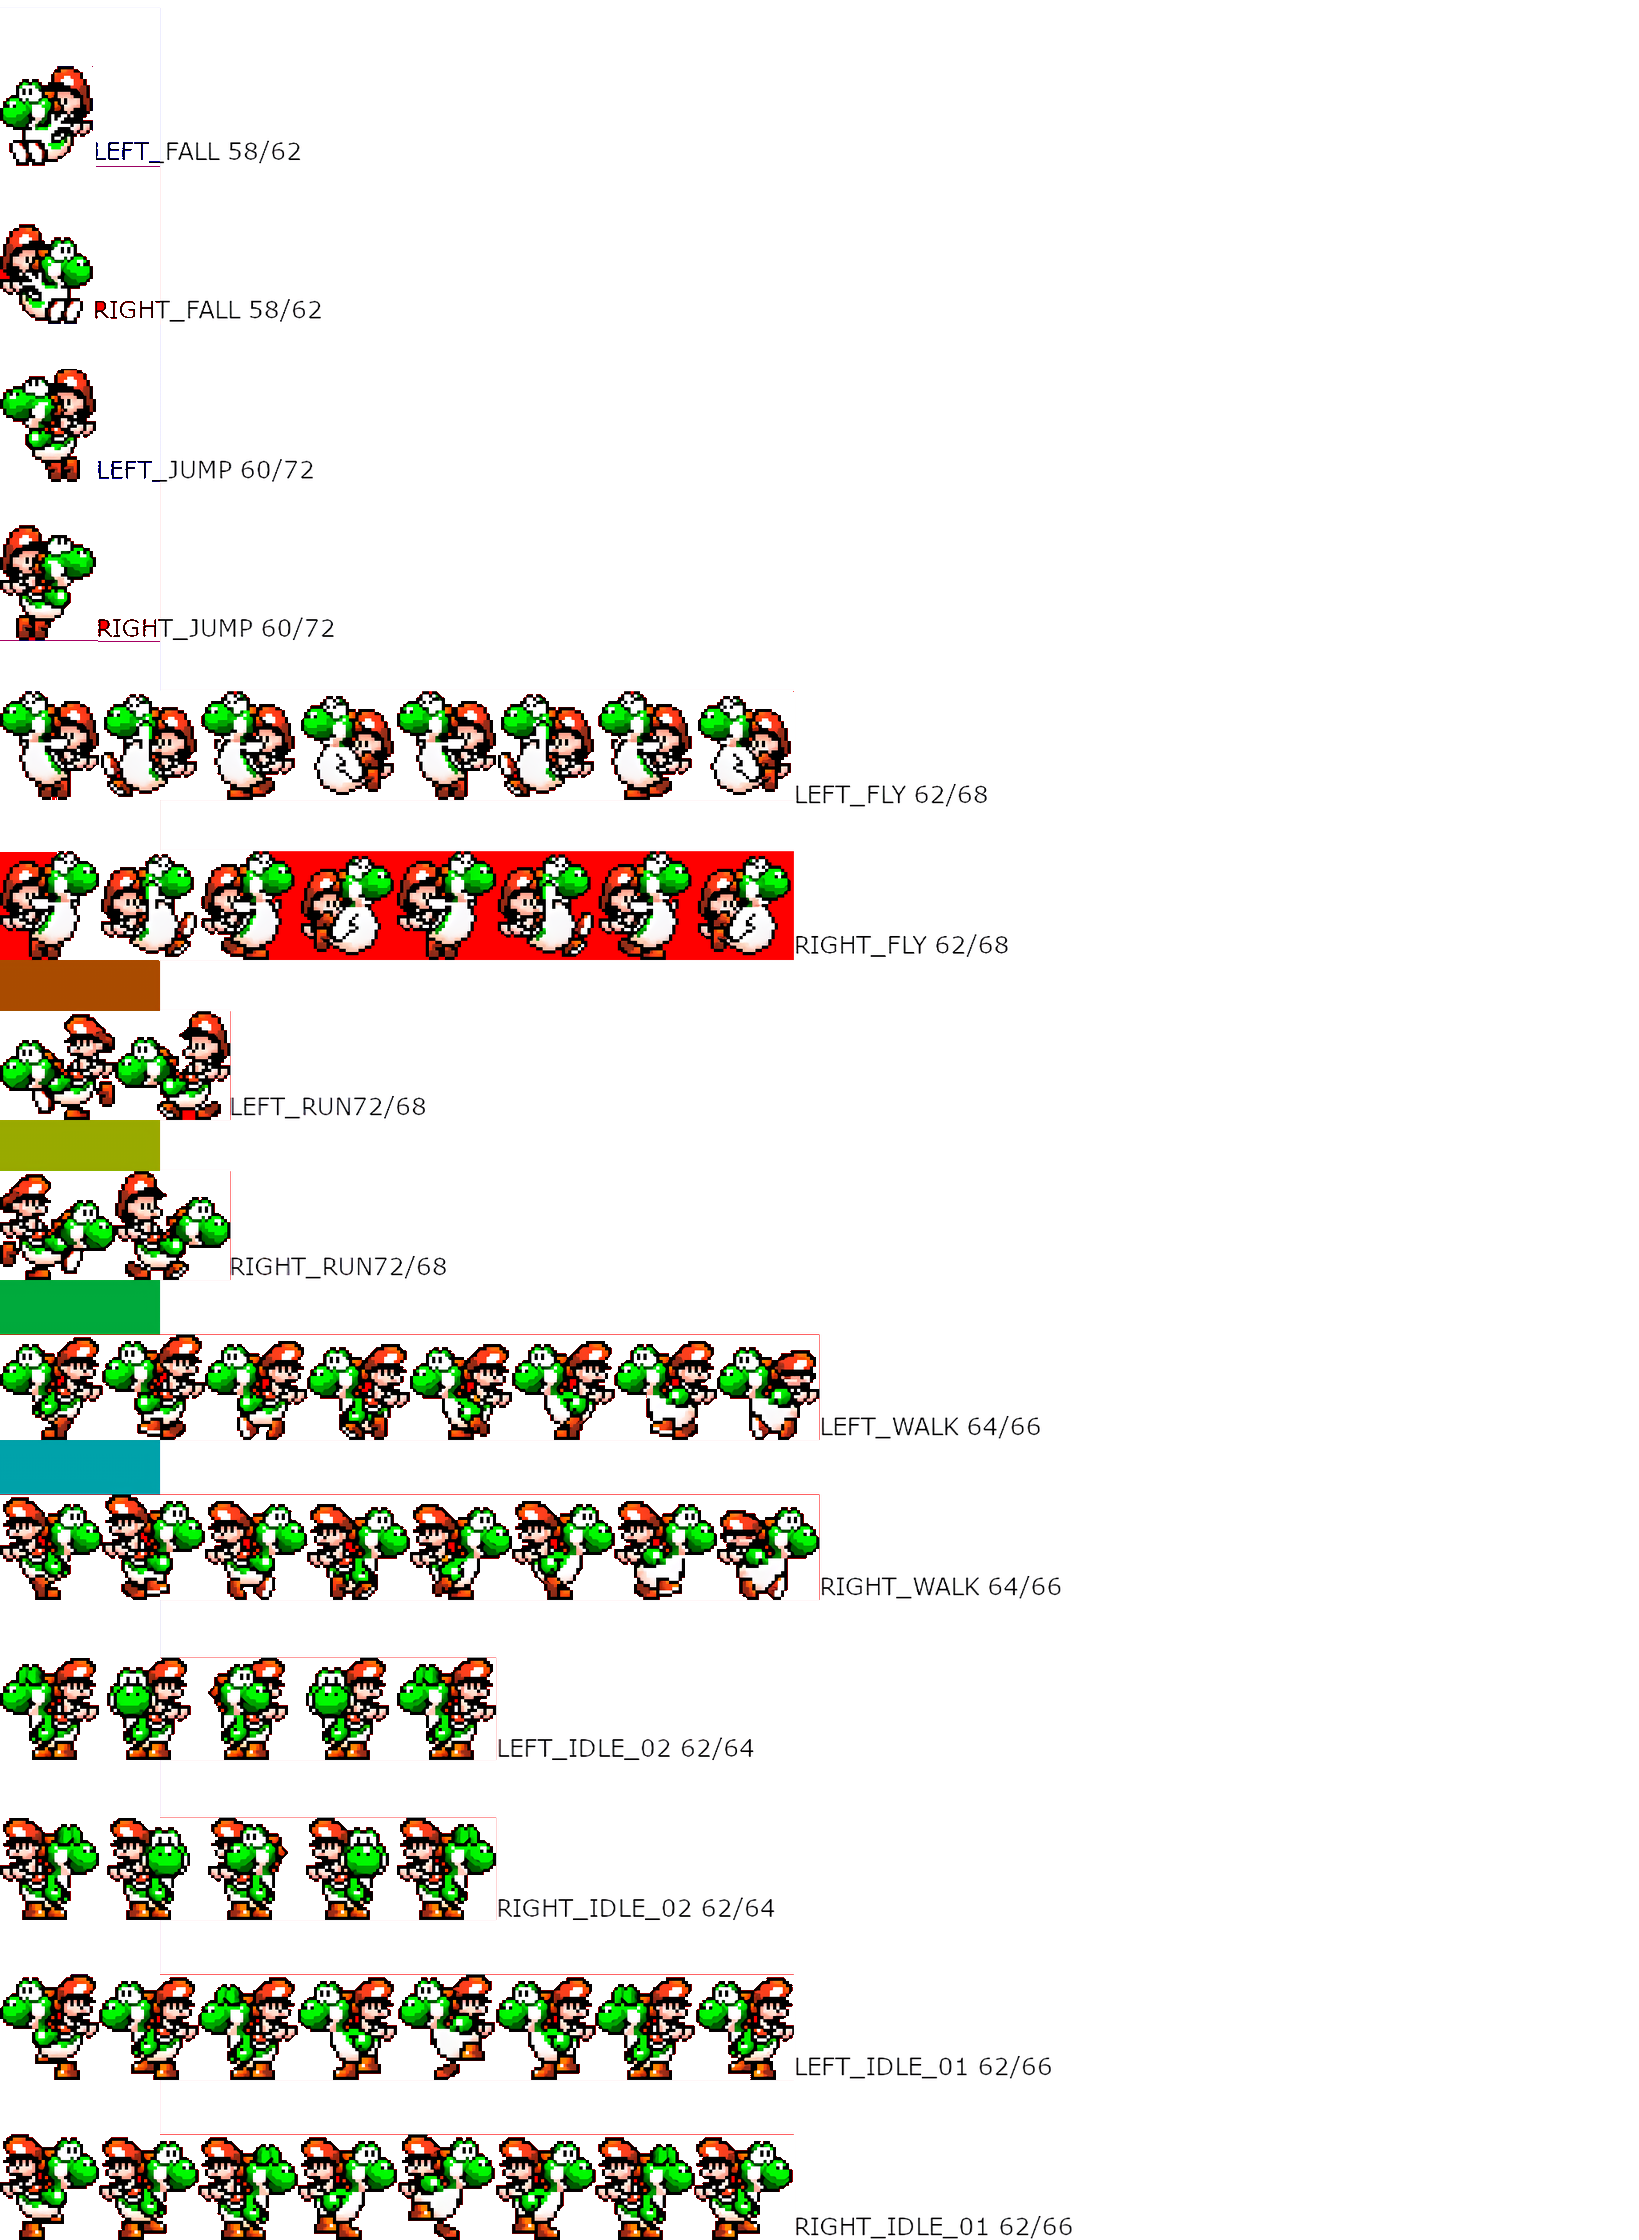
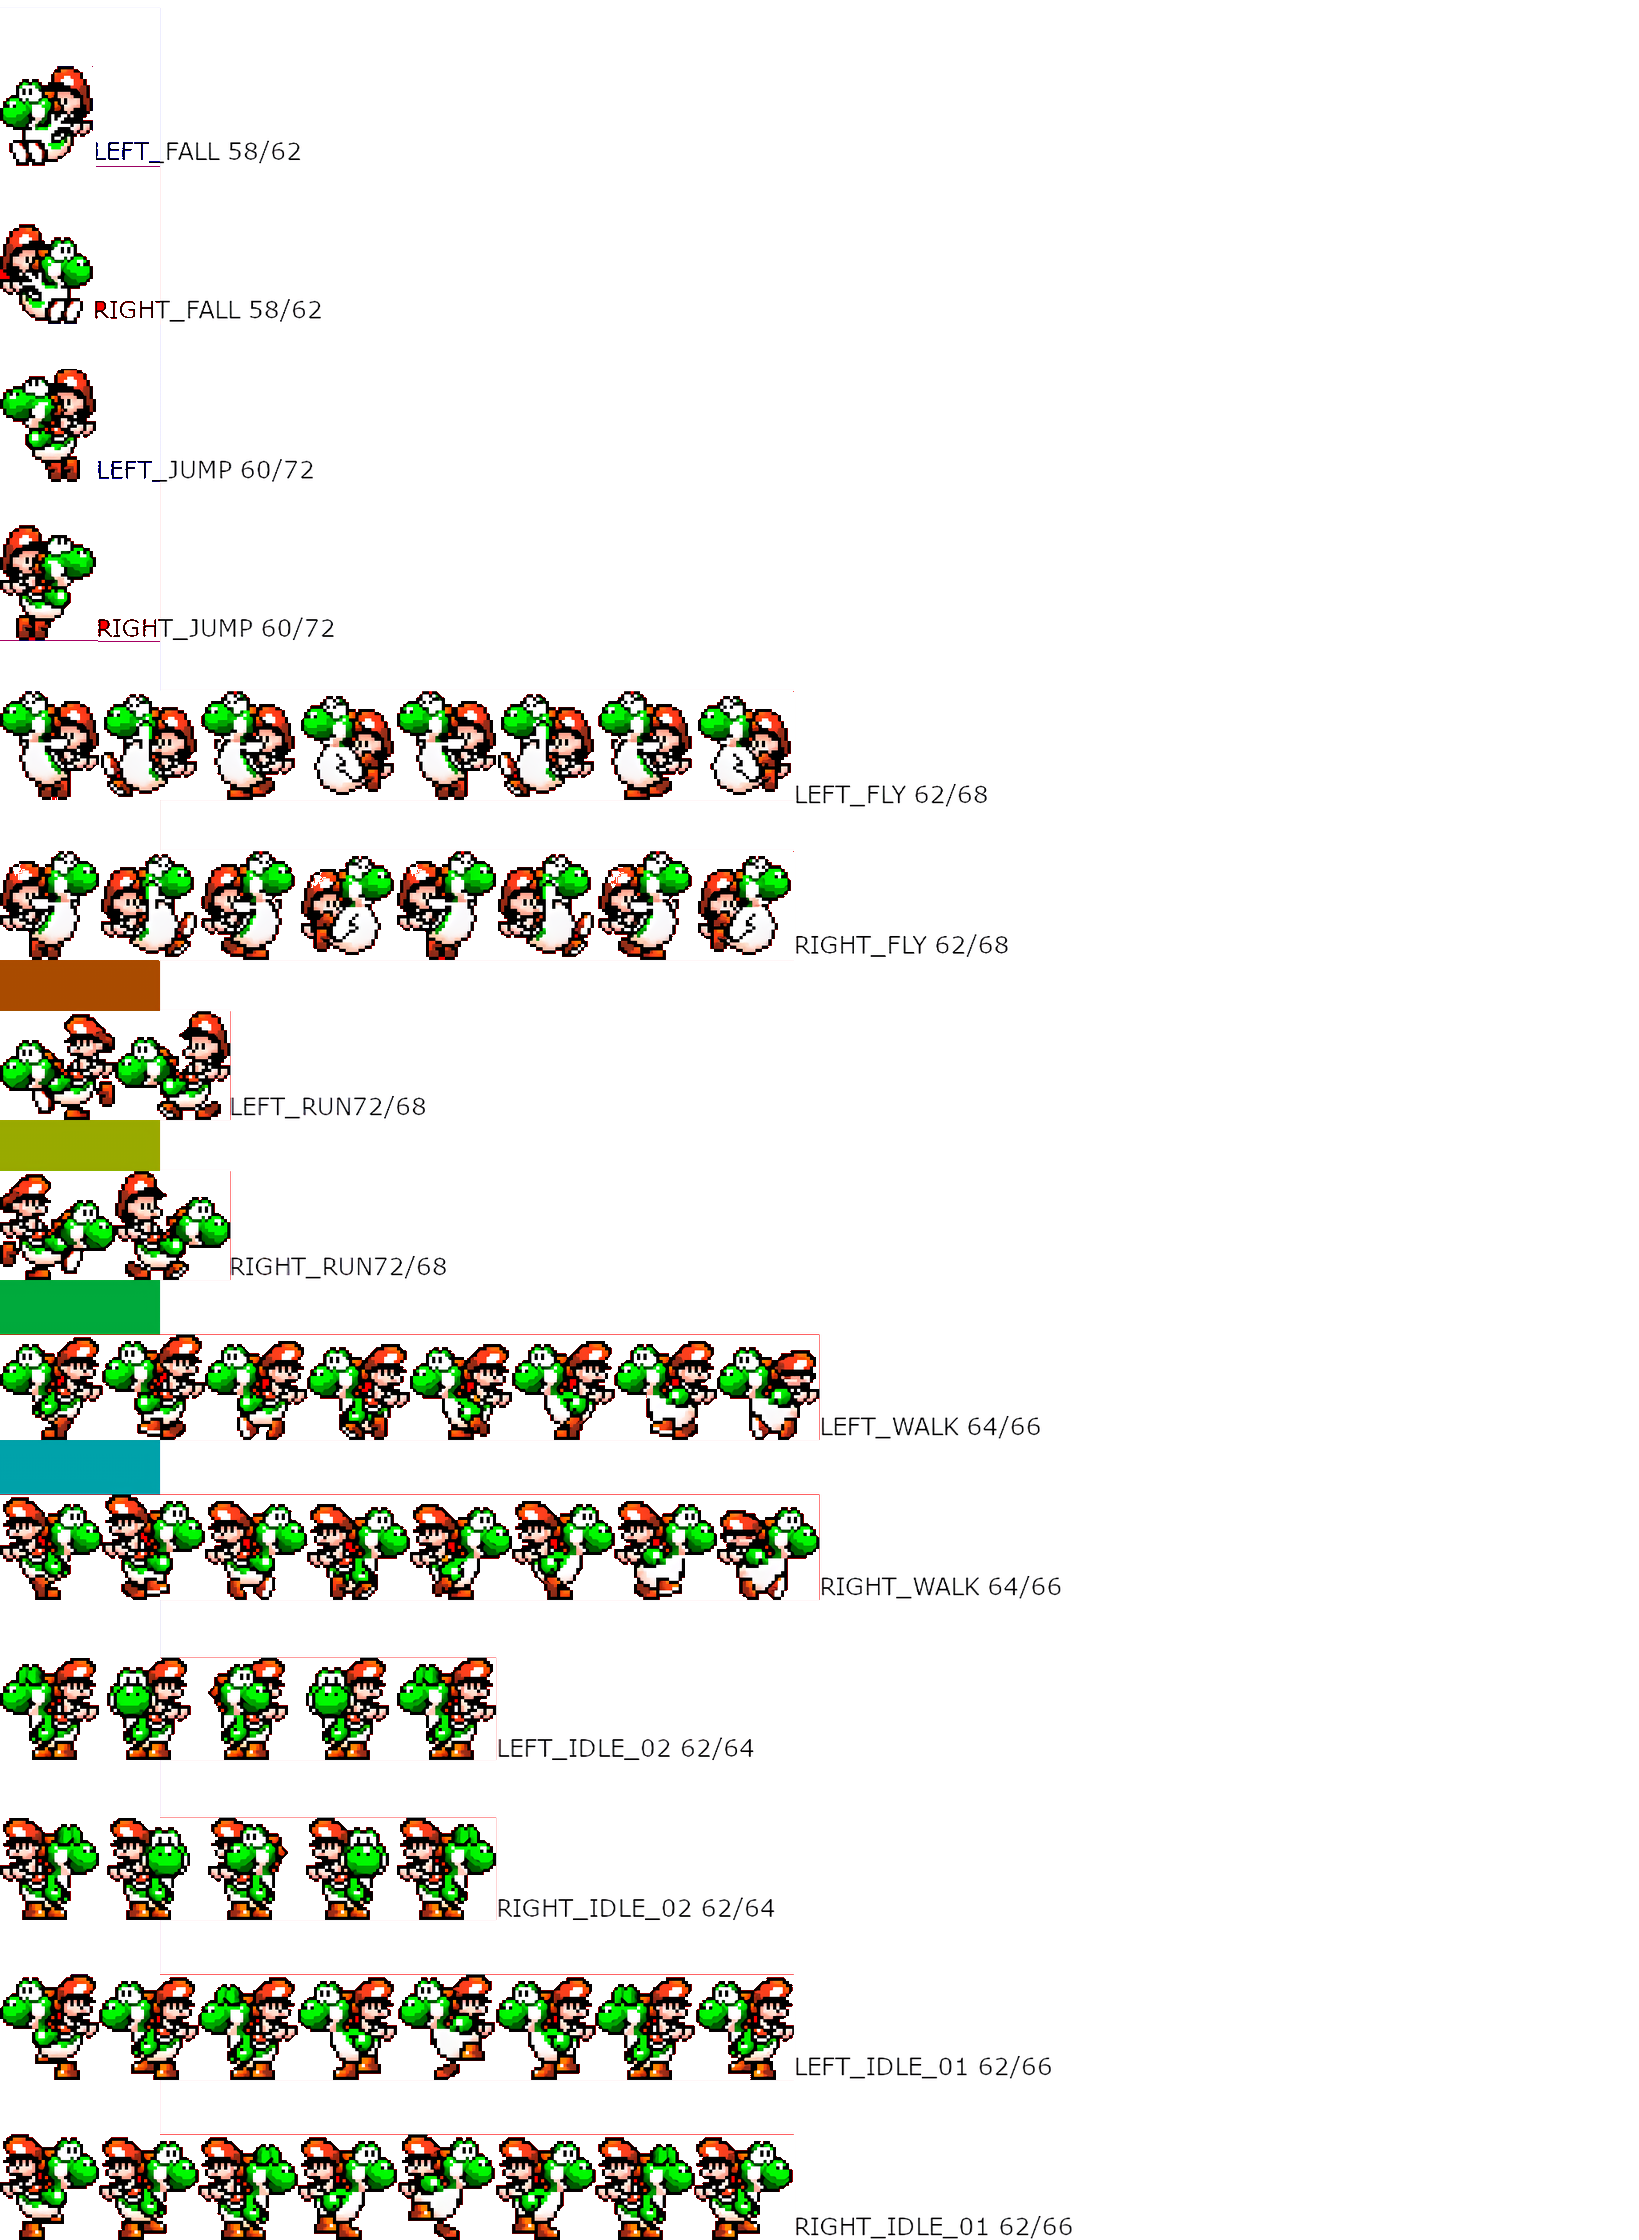
yoshi 날기 추가

Changed region(s): [[0.1556, 0.375, 0.4979, 0.4375], [0.0, 0.375, 0.0311, 0.4375]]

diff --git a/yoshi_character.py b/yoshi_character.py
@@ -11,7 +11,7 @@ MAXJUMPTIME = 10
 jump_delay = 0
 
 #이벤트 정의
-WD,WU,AD,AU,SD,SU,DD,DU,SHIFTD,SHIFTU = range(10)
+WD,WU,AD,AU,SD,SU,DD,DU,SHIFTD,SHIFTU,GOTOFLY = range(11)
 key_down = [False for i in range(10)]
 
 key_event_table = {
@@ -195,8 +195,7 @@ class JUMP:
                 self.face= RIGHT
 
     def exit(self, event=None):
-        if event == WU:
-            self.pressJump = 0
+        self.pressJump = 0
 
         pass
 
@@ -246,8 +245,6 @@ class FALL:
             self.dir[X] += 1
             if key_down[DD] == True:
                 self.face= RIGHT
-        pass
-
     def exit(self, event=None):
         pass
 
@@ -274,16 +271,78 @@ class FALL:
                 self.camera[Y] + int(62 * 1.6) // 2
             )
 
+fly_gravity = [0,4,4,0,-4,-4,-2,2,10]
+class FLY:
+    def enter(self, event=None):
+        self.delay = 0
+        self.frame = 0
+        if event == GOTOFLY:
+            self.flytime = 0
+        if event == DD:
+            self.dir[X] += 1
+            self.face = RIGHT
+        elif event == AD:
+            self.dir[X] -= 1
+            self.face = LEFT
+        elif event == DU:
+            self.dir[X] -= 1
+            if key_down[AD] == True:
+                self.face = LEFT
+        elif event == AU:
+            self.dir[X] += 1
+            if key_down[DD] == True:
+                self.face = RIGHT
+        pass
+
+    def exit(self, event=None):
+        if event == WU:
+            self.flytime = 0
+            self.gravity = 0
+        pass
+
+    def do(self):
+        self.flytime = (self.flytime+1)
+        print(self.flytime)
+        if self.flytime == 90:
+            self.cur_state.exit(self)
+            self.cur_state = FALL
+            self.cur_state.enter(self)
+        else:
+            self.gravity = fly_gravity[self.flytime//10]
+        pass
+
+    def draw(self):
+        if self.face == RIGHT:
+            self.image[yoshi_state[self.state]].clip_draw(
+                int(62*1.6) * self.frame,
+                1280,
+                int(62*1.6),
+                int(68*1.6),
+                self.camera[X] + int(62*1.6) // 2,
+                self.camera[Y] + int(68*1.6) // 2
+            )
+        else:
+            self.image[yoshi_state[self.state]].clip_draw(
+                int(62*1.6) * self.frame,
+                1440,
+                int(62*1.6),
+                int(68*1.6),
+                self.camera[X] + int(62*1.6) // 2,
+                self.camera[Y] + int(68*1.6)// 2
+            )
+    pass
+
 next_state = {
     IDLE_01: {WD: JUMP, AD: WALK, AU: WALK, DD: WALK, DU: WALK},
     IDLE_02: {WD: JUMP, AD: WALK, AU: WALK, DD: WALK, DU: WALK},
     WALK: {WD: JUMP, AD: IDLE_01, AU: IDLE_01, DD: IDLE_01, DU: IDLE_01, SHIFTD: RUN, SHIFTU: WALK},
     RUN: {WD: JUMP, AD: IDLE_01, AU: IDLE_01, DD: IDLE_01, DU: IDLE_01, SHIFTD: WALK, SHIFTU: WALK},
     JUMP: {WD: JUMP, WU:FALL,AD: JUMP, AU: JUMP, DD: JUMP, DU: JUMP},
-    FALL: {AD: FALL, AU: FALL, DD: FALL, DU: FALL}
+    FALL: {AD: FALL, AU: FALL, DD: FALL, DU: FALL},
+    FLY: {WU: FALL, AD:FLY, AU: FLY, DD: FLY, DU:FLY}
 }
-yoshi_delay = {IDLE_01:8,IDLE_02:10,WALK:8,RUN: 8,JUMP:0,FALL:0}
-yoshi_motion_num = {IDLE_01:8,IDLE_02:5, WALK:8, RUN:2, JUMP:1, FALL:1}
+yoshi_delay = {IDLE_01:8,IDLE_02:10,WALK:8,RUN: 8,JUMP:0,FALL:0, FLY: 6}
+yoshi_motion_num = {IDLE_01:8,IDLE_02:5, WALK:8, RUN:2, JUMP:1, FALL:1, FLY: 8}
 
 
 class Yoshi:
@@ -307,8 +366,10 @@ class Yoshi:
         # 카메라 관련
         self.camera = [0, 0]
 
-        # 점프 관련
+        # 점프/날기 관련
         self.pressJump = False
+        self.flytime = 0
+
 
         # 상태 관련(리팩토링중)
         self.event_que = []
@@ -487,16 +548,16 @@ class Yoshi:
             if self.pressJump <=MAXJUMPTIME:
                 if jump_delay == 0:
                     if self.gravity==-GRAVITY: self.gravity+=GRAVITY*4
-                    else :self.gravity += GRAVITY*2
+                    else :
+                        self.gravity += GRAVITY*2
                     self.pressJump+=1
                 jump_delay = (jump_delay+1) % 3
             else:
-                self.pressJump=0
+                #self.pressJump=0
                 jump_delay=0
-
                 self.cur_state.exit(self)
-                self.cur_state= FALL
-                self.cur_state.enter(self)
+                self.cur_state= FLY
+                self.cur_state.enter(self,GOTOFLY)
 
     def add_event(self, event):
         self.event_que.insert(0, event)
